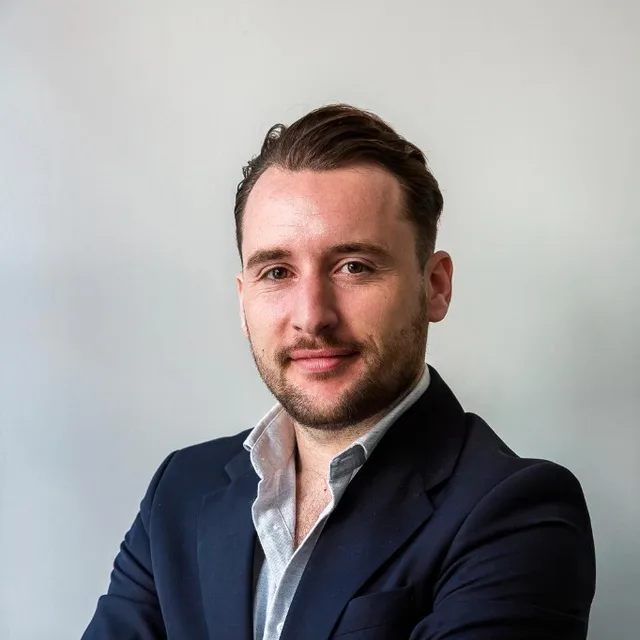
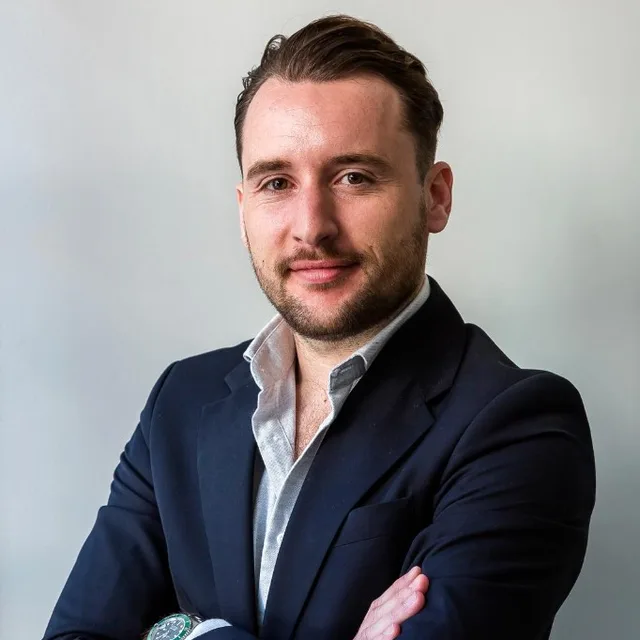
Ajuster le cadrage du portrait de Victor Bonazza.

diff --git a/src/pages/AgencyPage.tsx b/src/pages/AgencyPage.tsx
@@ -11,7 +11,7 @@ export function AgencyPage() {
 
   const team = [
     ['Romain Monneri-Fons', 'Directeur associé', '/fr/images/team/romain.webp?v=2', 'Une expertise solide, des conseils précis et surtout une vraie proximité : chaque projet mérite une attention particulière et un accompagnement à la hauteur.'],
-    ['Victor Bonazza', 'Gérant associé', '/fr/images/team/victor.webp?v=4', "Expert de terrain, il sécurise vos étapes d'achat et de vente avec rigueur."],
+    ['Victor Bonazza', 'Gérant associé', '/fr/images/team/victor.webp?v=6', "Expert de terrain, il sécurise vos étapes d'achat et de vente avec rigueur."],
     ['Sarah Bodhuin', 'Agent commercial', '/fr/images/team/sarah-bodhuin.webp', 'Elle accompagne chaque projet avec écoute, exigence et une vraie présence sur le terrain.'],
     ['Raphaël Lasbatx', 'Négociateur immobilier', '/fr/images/team/raphael.webp', 'Réactif et attentif, il vous guide sur chaque phase de la transaction.'],
     ['Samuel Ribes', 'Négociateur immobilier', '/fr/images/team/samuel.webp', "Au-delà d'un projet immobilier, je place l'humain au cœur de chaque rencontre, avec écoute, confiance et engagement."],

diff --git a/src/static/home-main.html b/src/static/home-main.html
@@ -353,7 +353,7 @@
               <p>Une expertise solide, des conseils précis et surtout une vraie proximité : chaque projet mérite une attention particulière et un accompagnement à la hauteur.</p>
             </article>
             <article class="home-team-preview__card">
-              <img src="/fr/images/team/victor.webp?v=4" alt="Portrait de Victor Bonazza" loading="lazy" />
+              <img src="/fr/images/team/victor.webp?v=6" alt="Portrait de Victor Bonazza" loading="lazy" />
               <h3>Victor Bonazza</h3>
               <p class="home-team-preview__role">Gérant associé</p>
               <p>Expert de terrain, il sécurise vos étapes d'achat et de vente avec rigueur.</p>

diff --git a/src/data/neighborhoods.ts b/src/data/neighborhoods.ts
@@ -115,7 +115,7 @@ export const NEIGHBORHOODS: Neighborhood[] = [
     referentAgent: {
       name: 'Victor Bonazza',
       role: 'Gérant associé',
-      photo: '/fr/images/team/victor.webp?v=4'
+      photo: '/fr/images/team/victor.webp?v=6'
     }
   },
   {
